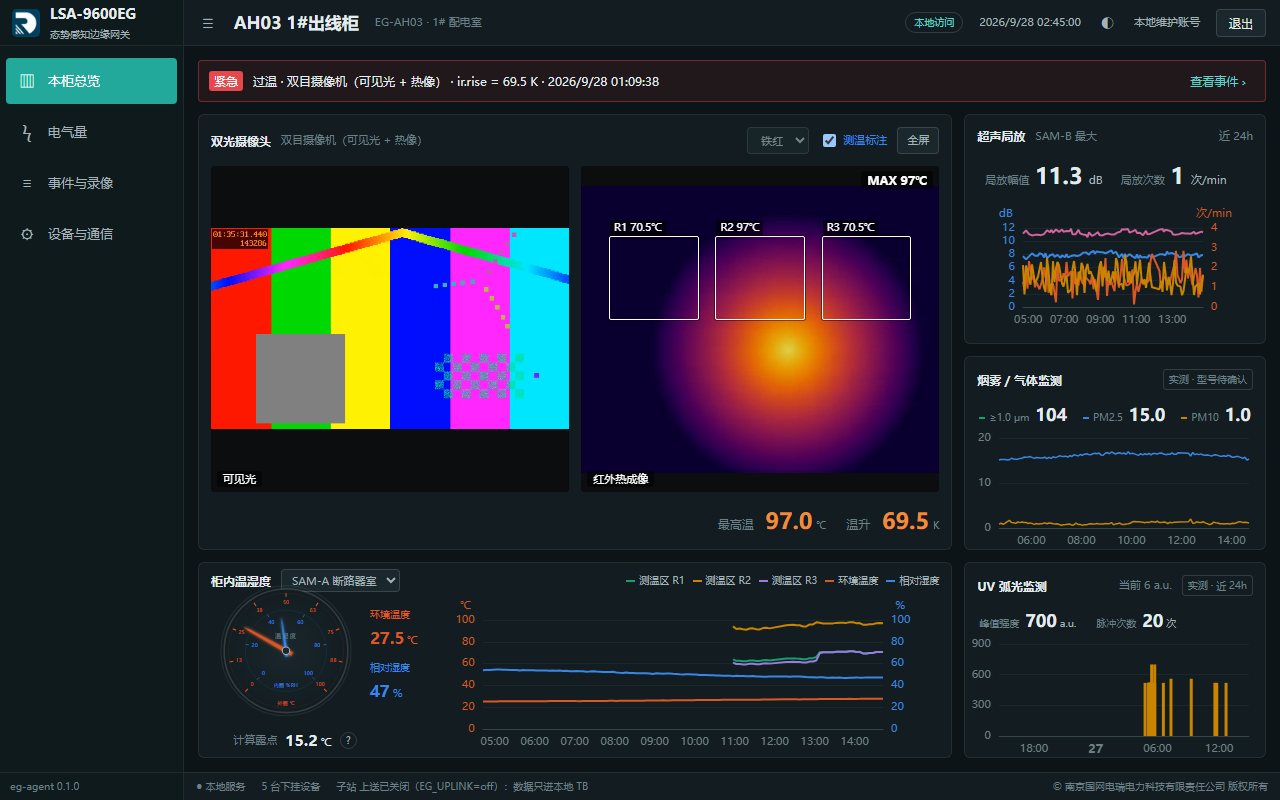
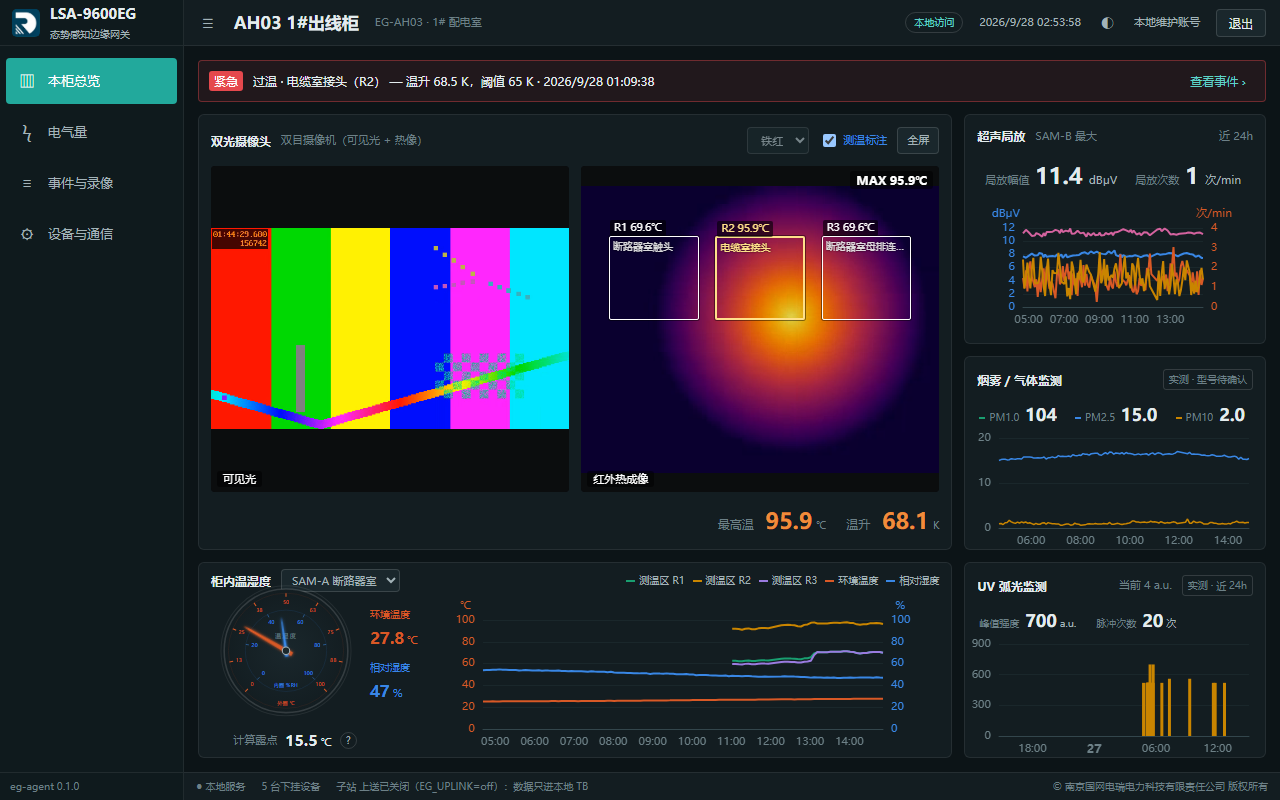
eg-ui-v2：按协调审图意见改 —— 告警说人话、热点区标黄带部位名、局放 dBμV、电气量带单位、PM1.0/2.5/10
- 告警条 / 事件描述：「类型 · 部位 — 量 值 单位，阈值 x 单位」，摄像机告警用 details.hot 找热点区、取区域部位名；页面不出原始 key
- ir.hot 是区域序号（2 = R2）：之前按 'R2' 比较没标上；热点框 2px 黄框，框上「R2 95.9℃」、框内部位名（省略号，悬停看全）
- 局放单位 dBμV（UNIT_FIX；点表写的是 dB，已报后端统一）；弧光 a.u.
- 电气量每行带单位，电压 / 电流 / 功率 1 位、功率因数 3 位、频率 2 位、电能 1 位
- 颗粒物标签按点表 PM1.0 / PM2.5 / PM10（单位取点表）
- 测温区定义各页都取（电气量、事件页的告警条也要部位名）
- 截图重截（docs/验收截图/eg-ui-v2/，页脚是旁观实例的「上送已关闭」，升级测试时用真实 agent 重截）

diff --git a/apps/admin-web/src/components/CabinetMonitor.vue b/apps/admin-web/src/components/CabinetMonitor.vue
@@ -29,11 +29,18 @@ async function fullscreen() {
 
 const { m, cam, sams, meter, pm, labelOf, num, text, series, has } = useMonitor(toRef(props, 'tab'), computed(() => !props.demo))
 const cab = computed(() => store.status?.cabinet.code)
-const catalogUnit = (kind: string, key: string, fallback = '') => store.catalog?.devices[kind]?.find(p => p.key === key)?.unit || fallback
+/** 页面上的单位一律取点表；局放幅值按子站与现场口径写 dBμV（点表目前写的是 dB，已报后端统一） */
+const UNIT_FIX: Record<string, string> = { 'us.amp': 'dBμV', 'uv.int': 'a.u.' }
+const catalogUnit = (kind: string, key: string, fallback = '') => UNIT_FIX[key] ?? (store.catalog?.devices[kind]?.find(p => p.key === key)?.unit || fallback)
 
 /* ---------- 总览：双光与测温区 ---------- */
 const streams = computed(() => (cam.value ? streamsOf(cab.value) : null))
-const hotId = computed(() => text(cam.value, 'ir.hot'))
+const hotId = computed(() => {
+  const h = text(cam.value, 'ir.hot')
+  return h === null ? null : /^\d+$/.test(h) ? `R${h}` : h
+})
+/** 测温区的部位名（eg.yaml CAM regions.R<n>.label，经 eg-video 的区域定义带来） */
+const regionLabel = (id: string) => m.regions.find(r => r.id === id)?.label ?? ''
 const rois = computed(() =>
   m.regions
     .map(r => {
@@ -41,13 +48,15 @@ const rois = computed(() =>
       const H = r.frame?.h || 512
       const c = r.coords
       const temp = r.type === 'point' ? num(cam.value, `ir.${r.id}.pt`) : num(cam.value, `ir.${r.id}.max`)
-      if (r.type === 'point') return { label: r.id, temp, hot: r.id === hotId.value, x: c.x! / W - 0.015, y: c.y! / H - 0.02, w: 0.03, h: 0.04, point: true }
-      if (c.width !== undefined) return { label: r.id, temp, hot: r.id === hotId.value, x: c.x! / W, y: c.y! / H, w: c.width / W, h: c.height! / H }
+      const label = r.id
+      const name = r.label
+      if (r.type === 'point') return { label, name, temp, hot: r.id === hotId.value, x: c.x! / W - 0.015, y: c.y! / H - 0.02, w: 0.03, h: 0.04, point: true }
+      if (c.width !== undefined) return { label, name, temp, hot: r.id === hotId.value, x: c.x! / W, y: c.y! / H, w: c.width / W, h: c.height! / H }
       // 线 / 多边形：画外接框
       const xs = Object.entries(c).filter(([k]) => /^x\d*$/.test(k)).map(([, v]) => v)
       const ys = Object.entries(c).filter(([k]) => /^y\d*$/.test(k)).map(([, v]) => v)
       if (!xs.length || !ys.length) return null
-      return { label: r.id, temp, hot: r.id === hotId.value, x: Math.min(...xs) / W, y: Math.min(...ys) / H, w: (Math.max(...xs) - Math.min(...xs)) / W || 0.01, h: (Math.max(...ys) - Math.min(...ys)) / H || 0.01 }
+      return { label, name, temp, hot: r.id === hotId.value, x: Math.min(...xs) / W, y: Math.min(...ys) / H, w: (Math.max(...xs) - Math.min(...xs)) / W || 0.01, h: (Math.max(...ys) - Math.min(...ys)) / H || 0.01 }
     })
     .filter((x): x is NonNullable<typeof x> => !!x),
 )
@@ -69,7 +78,7 @@ const realClimate = computed<UnitSeries[]>(() => [
 const climate = computed(() => (props.demo ? climateSeries : realClimate.value))
 
 /* ---------- 总览：超声局放（各 SAM 取大） ---------- */
-const ampUnit = computed(() => catalogUnit('sam', 'us.amp', 'dB'))
+const ampUnit = computed(() => catalogUnit('sam', 'us.amp', 'dBμV'))
 const cntUnit = computed(() => catalogUnit('sam', 'us.cnt', '次/min'))
 const maxOver = (key: string) => {
   const vs = sams.value.map(s => ({ s, v: num(s, key) })).filter((x): x is { s: string; v: number } => x.v !== null)
@@ -91,14 +100,14 @@ const dischargeScales = computed(() => {
 const pdAxisColors = computed(() => ({ [dischargeUnits.value[0]!]: 'var(--s1)', [dischargeUnits.value[1]!]: 'var(--s2)' }))
 const hasPd = computed(() => sams.value.some(s => has(s, 'us.amp')))
 
-/* ---------- 总览：烟雾 / 气体（点表 pm 设备：≥1.0 μm 颗粒数、PM2.5、PM10） ---------- */
+/* ---------- 总览：烟雾 / 气体（点表 pm 设备：PM1.0（点表单位 个/L）、PM2.5、PM10（μg/m³）） ---------- */
 const PM_KEYS = [
-  { key: 'pm.1.0', name: '≥1.0 μm', color: 'var(--s3)' },
+  { key: 'pm.1.0', name: 'PM1.0', color: 'var(--s3)' },
   { key: 'pm.2.5', name: 'PM2.5', color: 'var(--s1)' },
   { key: 'pm.10', name: 'PM10', color: 'var(--s4)' },
 ]
 const pmReadings = computed(() => PM_KEYS.map(p => ({ ...p, unit: catalogUnit('pm', p.key), v: num(pm.value, p.key) })))
-// 趋势只画质量浓度（μg/m³）两路；颗粒数（个/L）量级不同，只给读数
+// 趋势只画质量浓度（μg/m³）两路；PM1.0 点表是颗粒数（个/L），量级不同，只给读数
 const pmSeries = computed<UnitSeries[]>(() => PM_KEYS.slice(1).map(p => ({ name: p.name, unit: catalogUnit('pm', p.key, 'μg/m³'), color: p.color, data: series(pm.value, p.key) })))
 
 /* ---------- 总览：UV 弧光（各 SAM 的 uv.pulse 近 24 h） ---------- */
@@ -119,14 +128,14 @@ const hasArc = computed(() => sams.value.some(s => has(s, 'uv.int')))
 
 /* ---------- 电气量（多功能电表 el.*） ---------- */
 const eu = (key: string, fb = '') => catalogUnit('meter', key, fb)
-const eRow = (label: string, key: string, digits = 1) => {
+const eRow = (label: string, key: string, digits = 1, unit?: string) => {
   const v = num(meter.value, key)
-  const u = eu(key)
+  const u = unit ?? eu(key)
   return [label, v === null ? '—' : `${v.toFixed(digits)}${u ? ' ' + u : ''}`] as [string, string]
 }
 const electricDemo = [
-  { label: '相电压', unit: 'V', items: [['Ua', '229.9'], ['Ub', '230.7'], ['Uc', '230.2']] },
-  { label: '三相电流', unit: 'A', items: [['Ia', '216.4'], ['Ib', '210.8'], ['Ic', '213.6']] },
+  { label: '相电压', unit: 'V', items: [['Ua', '229.9 V'], ['Ub', '230.7 V'], ['Uc', '230.2 V']] },
+  { label: '三相电流', unit: 'A', items: [['Ia', '216.4 A'], ['Ib', '210.8 A'], ['Ic', '213.6 A']] },
   { label: '功率', unit: '', items: [['有功', '142.6 kW'], ['无功', '28.4 kvar'], ['视在', '145.4 kVA']] },
   { label: '其他测量', unit: '', items: [['功率因数', '0.981'], ['频率', '50.00 Hz'], ['正向有功电能', '125680.4 kWh'], ['负荷率', '54.1 %']] },
 ]
@@ -134,10 +143,10 @@ const electric = computed(() =>
   props.demo
     ? electricDemo
     : [
-        { label: '相电压', unit: 'V', items: [['Ua', f1(num(meter.value, 'el.Ua'))], ['Ub', f1(num(meter.value, 'el.Ub'))], ['Uc', f1(num(meter.value, 'el.Uc'))]] },
-        { label: '三相电流', unit: 'A', items: [['Ia', f1(num(meter.value, 'el.Ia'))], ['Ib', f1(num(meter.value, 'el.Ib'))], ['Ic', f1(num(meter.value, 'el.Ic'))]] },
-        { label: '功率', unit: '', items: [eRow('有功', 'el.P'), eRow('无功', 'el.Q'), eRow('视在', 'el.S')] },
-        { label: '其他测量', unit: '', items: [eRow('功率因数', 'el.PF', 3), eRow('频率', 'el.F', 2), eRow('正向有功电能', 'el.Ep', 1), eRow('负荷率', 'el.load_pct', 1)] },
+        { label: '相电压', unit: 'V', items: [eRow('Ua', 'el.Ua', 1, 'V'), eRow('Ub', 'el.Ub', 1, 'V'), eRow('Uc', 'el.Uc', 1, 'V')] },
+        { label: '三相电流', unit: 'A', items: [eRow('Ia', 'el.Ia', 1, 'A'), eRow('Ib', 'el.Ib', 1, 'A'), eRow('Ic', 'el.Ic', 1, 'A')] },
+        { label: '功率', unit: '', items: [eRow('有功', 'el.P', 1, 'kW'), eRow('无功', 'el.Q', 1, 'kvar'), eRow('视在', 'el.S', 1, 'kVA')] },
+        { label: '其他测量', unit: '', items: [eRow('功率因数', 'el.PF', 3, ''), eRow('频率', 'el.F', 2, 'Hz'), eRow('正向有功电能', 'el.Ep', 1, 'kWh'), eRow('负荷率', 'el.load_pct', 1, '%')] },
       ],
 )
 const realCurrent = computed<UnitSeries[]>(() => ['a', 'b', 'c'].map((p, i) => ({ name: `${p.toUpperCase()} 相电流`, unit: 'A', color: ['var(--s4)', 'var(--s3)', 'var(--s6)'][i], data: series(meter.value, `el.I${p}`) })))
@@ -146,12 +155,34 @@ const current = computed(() => (props.demo ? currentSeries : realCurrent.value))
 /* ---------- 事件与录像 ---------- */
 const SEV: Record<string, [string, string]> = { CRITICAL: ['紧急', 'var(--crit)'], MAJOR: ['重要', 'var(--major)'], MINOR: ['次要', 'var(--minor)'], WARNING: ['提示', 'var(--info)'], INDETERMINATE: ['记录', 'var(--muted)'] }
 const SEV_ORDER = ['CRITICAL', 'MAJOR', 'MINOR', 'WARNING', 'INDETERMINATE']
+/** 量的简称（告警描述用）；没列的取点表标签 */
+const QTY: Record<string, string> = {
+  'ir.rise': '温升', 'ir.rmax': '最高温', 'ir.max': '最高温', 'ir.dmax': '区域温差', 'uv.int': '弧光强度', 'us.amp': '局放幅值', 'us.cnt': '局放次数',
+  'env.t': '环境温度', 'env.rh': '相对湿度', 'el.load_pct': '负荷率', 'dev.link': '通信',
+}
+function qtyOf(dev: string, key: string): string {
+  if (QTY[key]) return QTY[key]!
+  if (/^ir\.R\d+\.(max|pt)$/.test(key)) return '温度'
+  const kind = store.status?.devices.find(d => d.name === dev)?.kind ?? ''
+  return store.catalog?.devices[kind]?.find(p => p.key === key)?.label ?? key
+}
+/** 与子站同一口径：「部位 — 量 值 单位，阈值 x 单位」。摄像机告警的部位用热点区（details.hot，或键里的 R<n>） */
 function detailOf(a: AlarmRow): string {
   const d = a.details
+  const key = typeof d['key'] === 'string' ? d['key'] : ''
+  const kind = store.status?.devices.find(x => x.name === a.device)?.kind ?? ''
+  const unit = UNIT_FIX[key] ?? (typeof d['unit'] === 'string' ? d['unit'] : '')
+  const u = (x: unknown) => `${x}${unit ? ' ' + unit : ''}`
+  let place = labelOf(a.device)
+  if (kind === 'camera') {
+    const rn = typeof d['hot'] === 'number' ? `R${d['hot']}` : /^ir\.(R\d+)\./.exec(key)?.[1]
+    if (rn) place = `${regionLabel(rn) || '测温区'}（${rn}）`
+  }
+  if (key === 'dev.link') return `${place} — 通信中断`
   const v = d['value'] ?? d['val']
-  const k = typeof d['key'] === 'string' ? d['key'] : ''
-  const u = typeof d['unit'] === 'string' ? d['unit'] : ''
-  return `${labelOf(a.device)}${k ? ` · ${k}` : ''}${v !== undefined && v !== null ? ` = ${v}${u ? ' ' + u : ''}` : ''}`
+  const th = d['threshold']
+  const val = v !== undefined && v !== null ? `${qtyOf(a.device, key)} ${u(v)}` : typeof d['rule'] === 'string' ? d['rule'] : ''
+  return `${place}${val ? ' — ' + val : ''}${th !== undefined && th !== null ? `，阈值 ${u(th)}` : ''}`
 }
 interface EvRow { id: string; time: number; level: string; color: string; type: string; detail: string; state: string; ev: EvidenceItem[] }
 const evByEvent = computed(() => {
@@ -245,7 +276,7 @@ async function download(id: string, label: string) {
           <SensorPreviewTrend :series="smokeSeries" />
         </template>
         <template v-else-if="pm">
-          <div class="preview-readings smoke-readings"><div v-for="s in pmReadings" :key="s.key"><span><i :style="{ background: s.color }"/>{{ s.name }}</span><b>{{ f1(s.v, s.key === 'pm.1.0' ? 0 : 1) }}</b><small>{{ s.unit }}</small></div></div>
+          <div class="preview-readings smoke-readings"><div v-for="s in pmReadings" :key="s.key" :title="s.unit"><span><i :style="{ background: s.color }"/>{{ s.name }}</span><b>{{ f1(s.v, s.key === 'pm.1.0' ? 0 : 1) }}</b><small>{{ s.unit }}</small></div></div>
           <SensorPreviewTrend :series="pmSeries" />
         </template>
         <div v-else class="monitor-empty"><span class="empty-symbol">◌</span><strong>传感器待确认</strong><span>确定型号与接口后接入</span></div>

diff --git a/apps/admin-web/src/components/kit/DualLightPlayer.vue b/apps/admin-web/src/components/kit/DualLightPlayer.vue
@@ -29,7 +29,7 @@ const props = withDefaults(defineProps<{
   /** 抓拍图（已取成 object URL，见 useAuthImage）；给了就整幅显示这张图 */
   image?: string | null
   /** EG：按摄像机坐标画的测温区（热像画面上的 0–1 比例坐标），温度取不到为 null；hot = 最热的（标黄） */
-  rois?: { label: string; temp: number | null; hot: boolean; x: number; y: number; w: number; h: number; point?: boolean }[]
+  rois?: { label: string; name?: string; temp: number | null; hot: boolean; x: number; y: number; w: number; h: number; point?: boolean }[]
   /** 测温区坐标所在画面的宽高比（如 640 / 512） */
   frameAspect?: number
 }>(), { hot: 1, thermalCap: '红外热成像', mode: 'side', palette: 'iron', phases: 3, envT: null, streams: null, image: null, frameAspect: 1.25 })
@@ -161,8 +161,9 @@ defineExpose({ capture })
           <div v-else class="nost">热像流未接入</div>
           <!-- EG：测温区按摄像机坐标画在热像画面上（画面按 contain 缩放，框跟着实际画面区域走），最热的标黄 -->
           <div v-if="showBoxes && rois?.length" class="roi-layer" :style="roiRect">
-            <div v-for="r in rois" :key="r.label" class="roi" :class="{ hot: r.hot, point: r.point }" :style="{ left: r.x * 100 + '%', top: r.y * 100 + '%', width: r.w * 100 + '%', height: r.h * 100 + '%' }">
+            <div v-for="r in rois" :key="r.label" class="roi" :class="{ hot: r.hot, point: r.point }" :style="{ left: r.x * 100 + '%', top: r.y * 100 + '%', width: r.w * 100 + '%', height: r.h * 100 + '%' }" :title="[r.label, r.name, (r.temp ?? '--') + '℃'].filter(Boolean).join(' ')">
               <span>{{ r.label }} {{ r.temp ?? '--' }}℃</span>
+              <em v-if="r.name && !r.point">{{ r.name }}</em>
             </div>
           </div>
           <!-- 没有区域定义时，框温列成标签条 -->
@@ -207,7 +208,9 @@ defineExpose({ capture })
 .roi-layer { position: absolute; pointer-events: none; }
 .roi { position: absolute; border: 1.5px solid #fff; border-radius: 2px; box-shadow: 0 0 0 1px rgba(0, 0, 0, .45); }
 .roi.point { border-radius: 50%; }
-.roi.hot { border-color: #ffe08a; }
+.roi.hot { border-color: #ffe08a; border-width: 2px; }
+.roi em { position: absolute; left: 3px; top: 2px; right: 3px; font-style: normal; font-size: 10px; color: rgba(255, 255, 255, .85); overflow: hidden; text-overflow: ellipsis; white-space: nowrap; text-shadow: 0 0 2px #000; }
+.roi.hot em { color: #ffe08a; }
 .roi span { position: absolute; left: 0; top: -17px; font-size: 10.5px; color: #fff; background: rgba(0, 0, 0, .6); padding: 0 4px; border-radius: 2px; white-space: nowrap; font-variant-numeric: tabular-nums; }
 .roi.hot span { color: #ffe08a; }
 .strip { position: absolute; left: 6px; top: 5px; display: flex; gap: 4px; flex-wrap: wrap; max-width: calc(100% - 90px); }

diff --git a/apps/admin-web/src/monitor.ts b/apps/admin-web/src/monitor.ts
@@ -159,7 +159,8 @@ export function useMonitor(tab: Ref<MonitorTab>, enabled: Ref<boolean>) {
       every(loadLive, 3000)
       every(loadHist, 60_000)
     }
-    if (tab.value === 'overview') every(loadRegions, 30_000)
+    // 测温区定义：总览画框，各页的告警条也要用部位名
+    every(loadRegions, 30_000)
     // 总览顶上的事件条也要用活动告警
     every(loadEvents, 10_000)
   }
